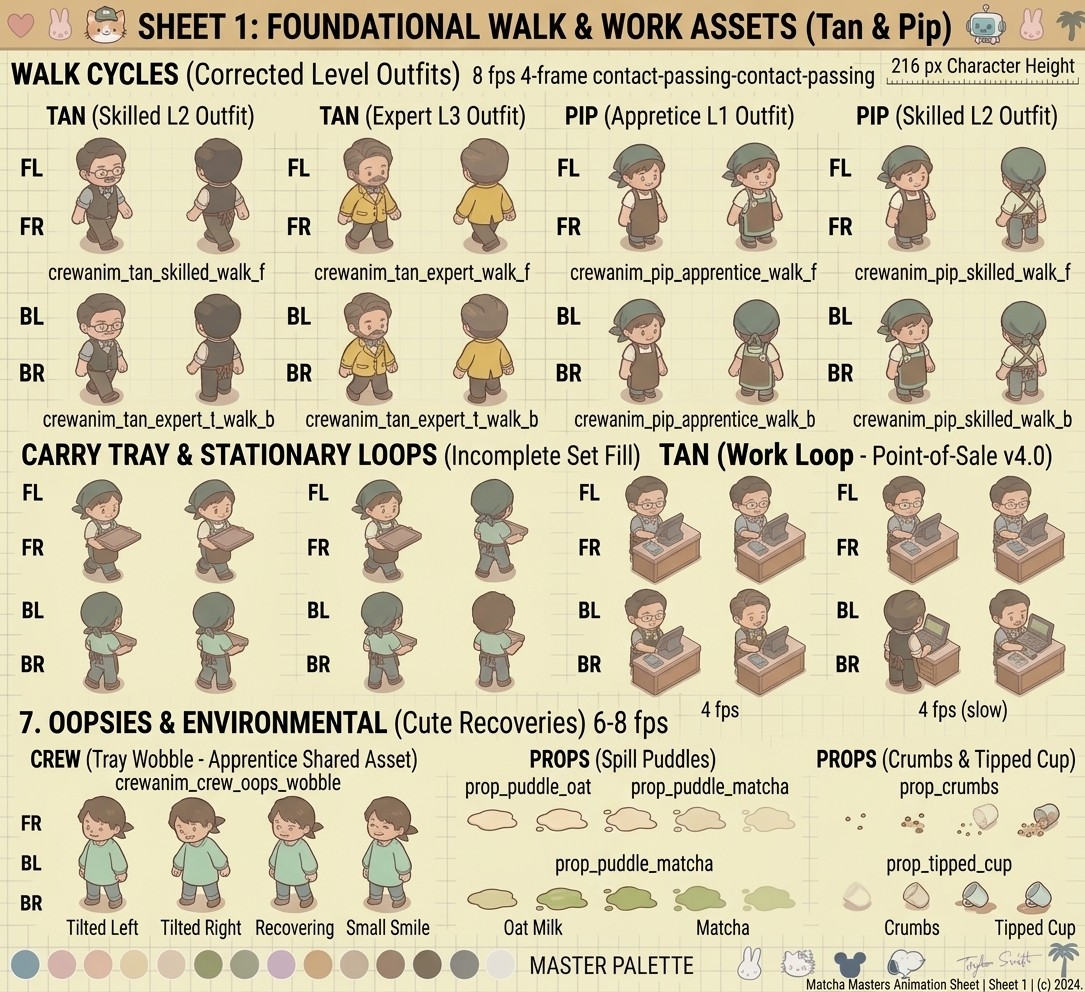
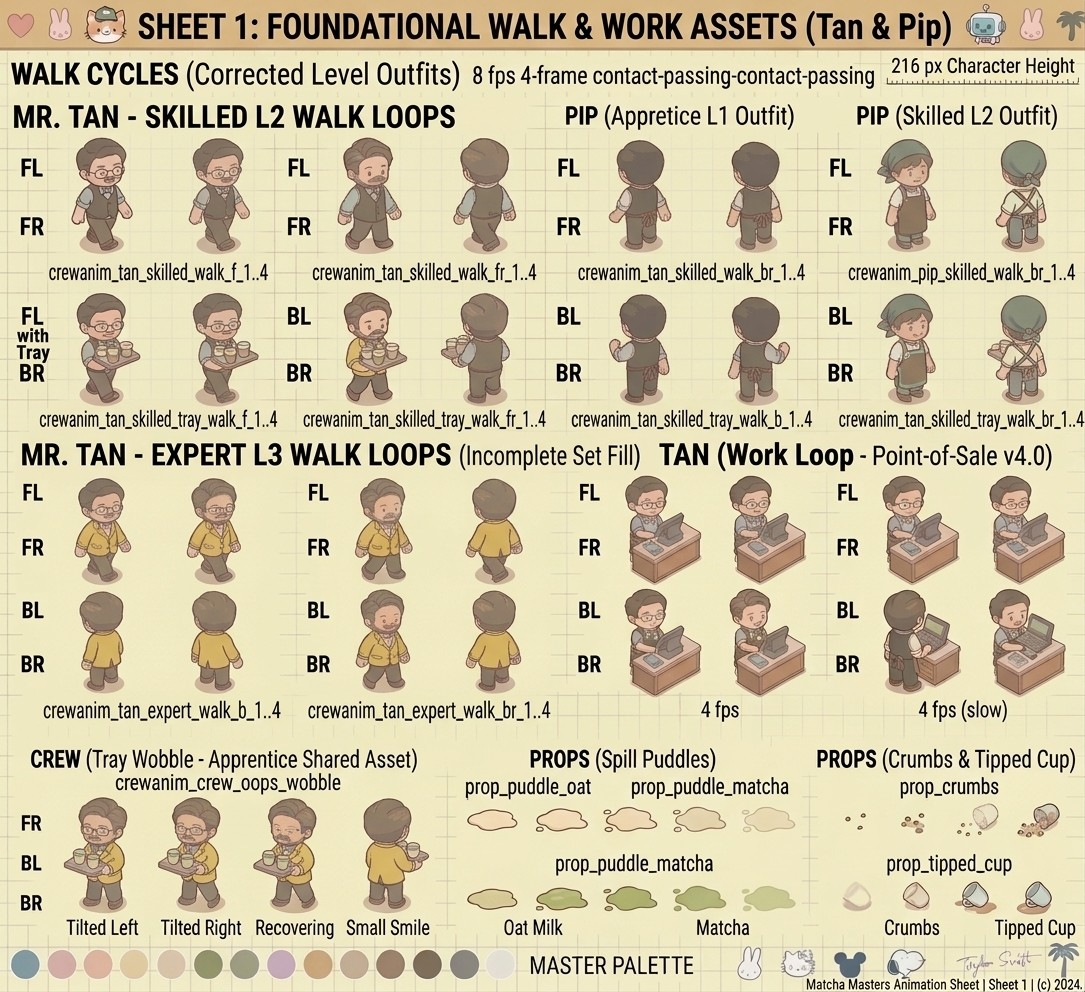
Birds and crew animation work in progress (helpers still running)
Claude-Session: https://claude.ai/code/session_016v8CeY3ySEpaAp7GyPzy8a

diff --git a/src/game/spriteListBirds.ts b/src/game/spriteListBirds.ts
@@ -1,0 +1,143 @@
+// Generated by tools/slice_birds.py. Do not edit by hand.
+export const BIRD_SPRITES = [
+  {
+    "key": "wx2_sparrow_1",
+    "file": "wx2_sparrow_1.png",
+    "w": 87,
+    "h": 60,
+    "dw": 11
+  },
+  {
+    "key": "wx2_sparrow_2",
+    "file": "wx2_sparrow_2.png",
+    "w": 87,
+    "h": 60,
+    "dw": 11
+  },
+  {
+    "key": "wx2_sparrow_3",
+    "file": "wx2_sparrow_3.png",
+    "w": 87,
+    "h": 60,
+    "dw": 11
+  },
+  {
+    "key": "wx2_sparrow_4",
+    "file": "wx2_sparrow_4.png",
+    "w": 87,
+    "h": 60,
+    "dw": 11
+  },
+  {
+    "key": "wx2_gull_1",
+    "file": "wx2_gull_1.png",
+    "w": 102,
+    "h": 82,
+    "dw": 13
+  },
+  {
+    "key": "wx2_gull_2",
+    "file": "wx2_gull_2.png",
+    "w": 102,
+    "h": 82,
+    "dw": 13
+  },
+  {
+    "key": "wx2_gull_3",
+    "file": "wx2_gull_3.png",
+    "w": 102,
+    "h": 82,
+    "dw": 13
+  },
+  {
+    "key": "wx2_gull_4",
+    "file": "wx2_gull_4.png",
+    "w": 102,
+    "h": 82,
+    "dw": 13
+  },
+  {
+    "key": "wx2_bfly_pink_1",
+    "file": "wx2_bfly_pink_1.png",
+    "w": 64,
+    "h": 61,
+    "dw": 8
+  },
+  {
+    "key": "wx2_bfly_pink_2",
+    "file": "wx2_bfly_pink_2.png",
+    "w": 64,
+    "h": 61,
+    "dw": 8
+  },
+  {
+    "key": "wx2_bfly_pink_3",
+    "file": "wx2_bfly_pink_3.png",
+    "w": 64,
+    "h": 61,
+    "dw": 8
+  },
+  {
+    "key": "wx2_bfly_pink_4",
+    "file": "wx2_bfly_pink_4.png",
+    "w": 64,
+    "h": 61,
+    "dw": 8
+  },
+  {
+    "key": "wx2_bfly_blue_1",
+    "file": "wx2_bfly_blue_1.png",
+    "w": 65,
+    "h": 62,
+    "dw": 8
+  },
+  {
+    "key": "wx2_bfly_blue_2",
+    "file": "wx2_bfly_blue_2.png",
+    "w": 65,
+    "h": 62,
+    "dw": 8
+  },
+  {
+    "key": "wx2_bfly_blue_3",
+    "file": "wx2_bfly_blue_3.png",
+    "w": 65,
+    "h": 62,
+    "dw": 8
+  },
+  {
+    "key": "wx2_bfly_blue_4",
+    "file": "wx2_bfly_blue_4.png",
+    "w": 65,
+    "h": 62,
+    "dw": 8
+  },
+  {
+    "key": "wx2_sparrow_perch",
+    "file": "wx2_sparrow_perch.png",
+    "w": 56,
+    "h": 33,
+    "dw": 7
+  },
+  {
+    "key": "wx2_sparrow_up",
+    "file": "wx2_sparrow_up.png",
+    "w": 80,
+    "h": 52,
+    "dw": 10
+  },
+  {
+    "key": "wx2_sparrow_flap",
+    "file": "wx2_sparrow_flap.png",
+    "w": 70,
+    "h": 50,
+    "dw": 9
+  },
+  {
+    "key": "wx2_sparrow_glide",
+    "file": "wx2_sparrow_glide.png",
+    "w": 95,
+    "h": 21,
+    "dw": 12
+  }
+] as const;

diff --git a/tools/slice_birds.py b/tools/slice_birds.py
@@ -1,0 +1,79 @@
+"""Cuts Sheet WX2 (art/source/sheet_wx2_flying_life.jpg): sparrow, gull and butterfly flight loops.
+Run:  python3 tools/slice_birds.py   Writes wx2_* sprites and src/game/spriteListBirds.ts.
+The creature only: the card edge and the ground shadow ellipse are left out (the game draws its own soft shadow).
+Every loop shares one canvas size and anchor, so wing flaps never make the body jitter."""
+import importlib.util, json, os
+import numpy as np
+from PIL import Image
+from scipy import ndimage
+
+HERE = os.path.dirname(os.path.abspath(__file__))
+spec = importlib.util.spec_from_file_location('s41', os.path.join(HERE, 'slice_sheets41_45.py'))
+s41 = importlib.util.module_from_spec(spec); spec.loader.exec_module(s41)
+ROOT, OUT = s41.ROOT, s41.OUT
+SH = s41.Sheet('sheet_wx2_flying_life.jpg')
+SPARROW_X = [(30, 155), (157, 285), (285, 413), (413, 540)]
+GULL_X = [(562, 687), (690, 815), (817, 943), (946, 1072)]
+PINK_X = [(30, 153), (157, 283), (287, 413), (415, 540)]
+BLUE_X = GULL_X
+
+
+def outline_cut(x0, y0, x1, y1):
+    """For cream bodied birds the card colour is too close to the belly, so the silhouette comes from the brown
+    outline instead: close it, fill it in and keep the largest piece."""
+    crop = SH.img.crop((x0, y0, x1, y1))
+    a = np.array(crop).astype(int)
+    dark = a.mean(-1) < 200  # the brown outline only: the cream belly is as pale as the card, and the shadow is paler still
+    padded = np.pad(dark, 10)  # so the closing can reach round the edge of the crop
+    m = ndimage.binary_closing(padded, iterations=7)[10:-10, 10:-10]
+    m = ndimage.binary_fill_holes(m)
+    lab, n = ndimage.label(m)
+    if n > 1:
+        sizes = ndimage.sum(m, lab, range(1, n + 1))
+        m = lab == (1 + int(np.argmax(sizes)))
+    m = ndimage.binary_dilation(m, iterations=1)
+    al = (m * 255).astype(np.uint8)
+    return Image.fromarray(np.dstack([a.astype(np.uint8), al]), 'RGBA')
+
+
+def frames(xs, y0, y1, outline=False):
+    out = []
+    for x0, x1 in xs:
+        im = outline_cut(x0 + 9, y0, x1 - 9, y1) if outline else SH.cutbox('o', x0 + 9, y0, x1 - 9, y1)
+        bb = im.getchannel('A').point(lambda v: 255 if v > 8 else 0).getbbox()
+        out.append(im.crop(bb))
+    return out
+
+
+def same_canvas(ims):
+    """Pad every frame to the largest size, centred, so the loop keeps one anchor."""
+    w, h = max(i.width for i in ims), max(i.height for i in ims)
+    res = []
+    for i in ims:
+        c = Image.new('RGBA', (w, h), (0, 0, 0, 0))
+        c.paste(i, ((w - i.width) // 2, (h - i.height) // 2), i)
+        res.append(c)
+    return res
+
+
+def main():
+    jobs = []
+    for k, ims in {'sparrow': same_canvas(frames(SPARROW_X, 106, 188, True)), 'gull': same_canvas(frames(GULL_X, 106, 206)),
+                   'bfly_pink': same_canvas(frames(PINK_X, 455, 548)), 'bfly_blue': same_canvas(frames(BLUE_X, 455, 548))}.items():
+        for n, im in enumerate(ims, 1):
+            jobs.append((f'wx2_{k}_{n}', im))
+    pose = frames(SPARROW_X, 752, 824, True)
+    for k, im in zip(('perch', 'up', 'flap', 'glide'), pose):
+        jobs.append((f'wx2_sparrow_{k}', im))
+    entries = []
+    for key, im in jobs:
+        im.save(os.path.join(OUT, key + '.png'), optimize=True)
+        entries.append({'key': key, 'file': key + '.png', 'w': im.width, 'h': im.height, 'dw': max(4, round(im.width / 8))})
+    with open(os.path.join(ROOT, 'src', 'game', 'spriteListBirds.ts'), 'w') as f:
+        f.write('// Generated by tools/slice_birds.py. Do not edit by hand.\n')
+        f.write('export const BIRD_SPRITES = ' + json.dumps(entries, indent=2) + ' as const;\n')
+    print('wrote', len(entries))
+
+
+if __name__ == '__main__':
+    main()
